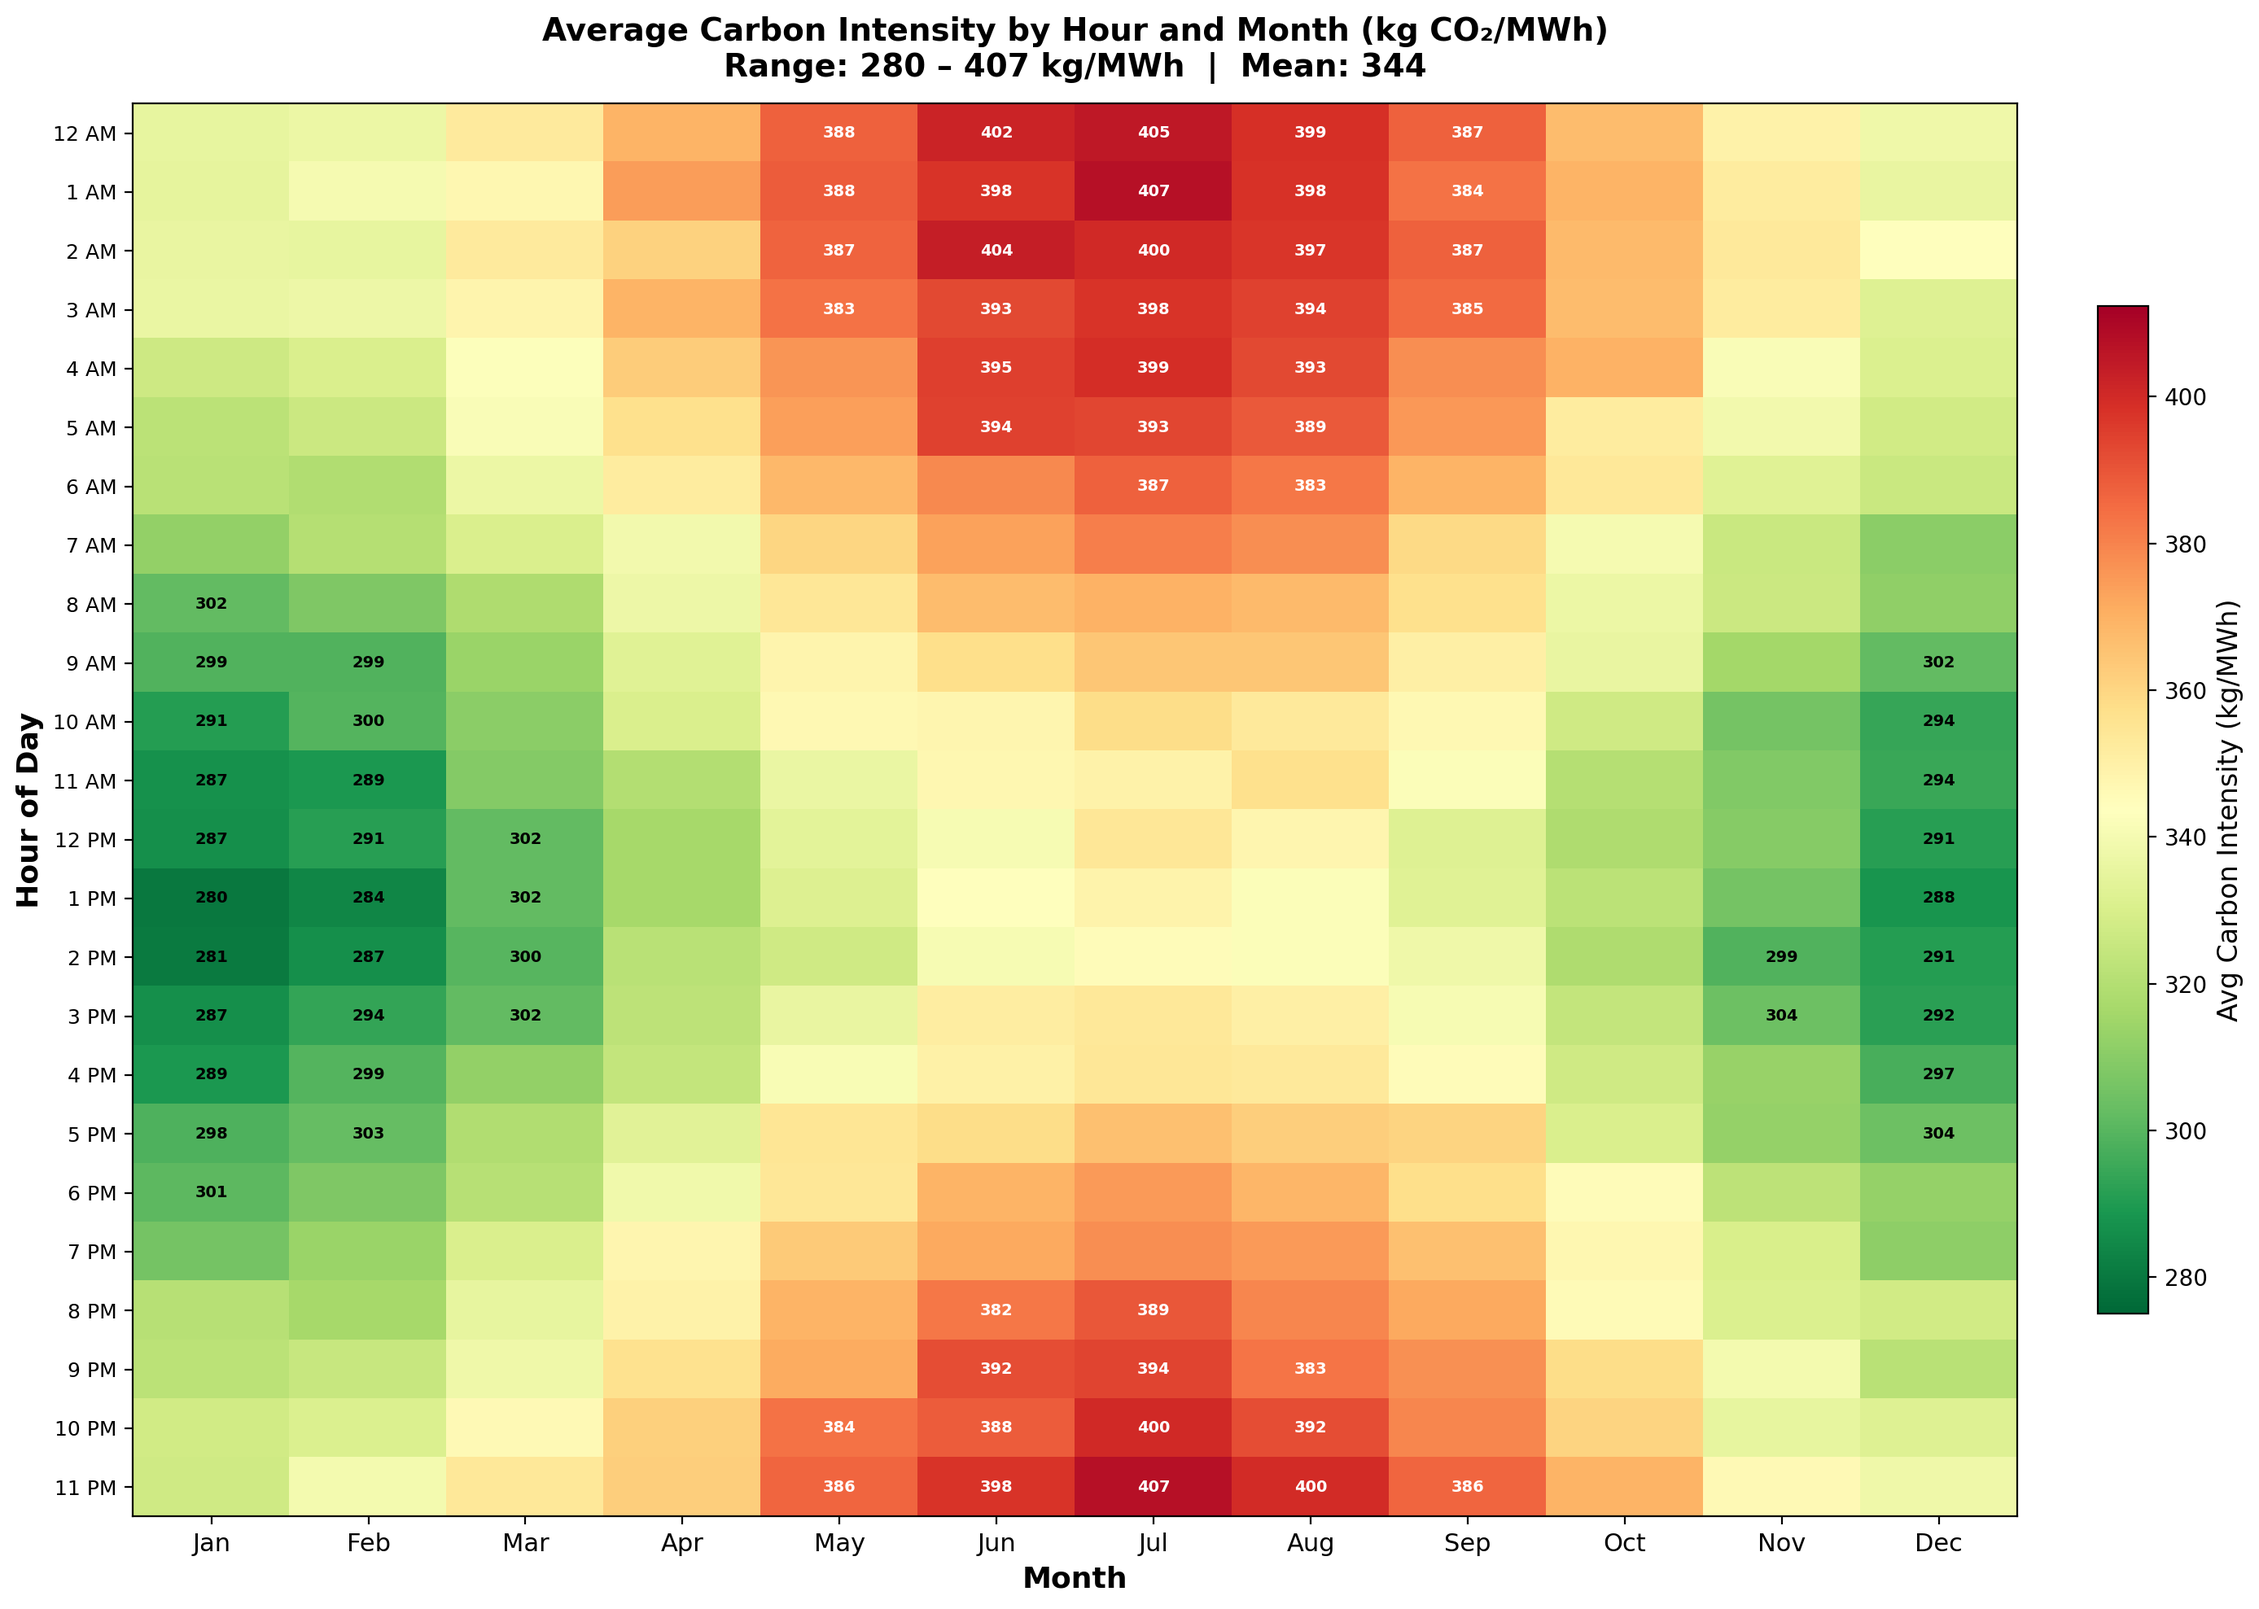
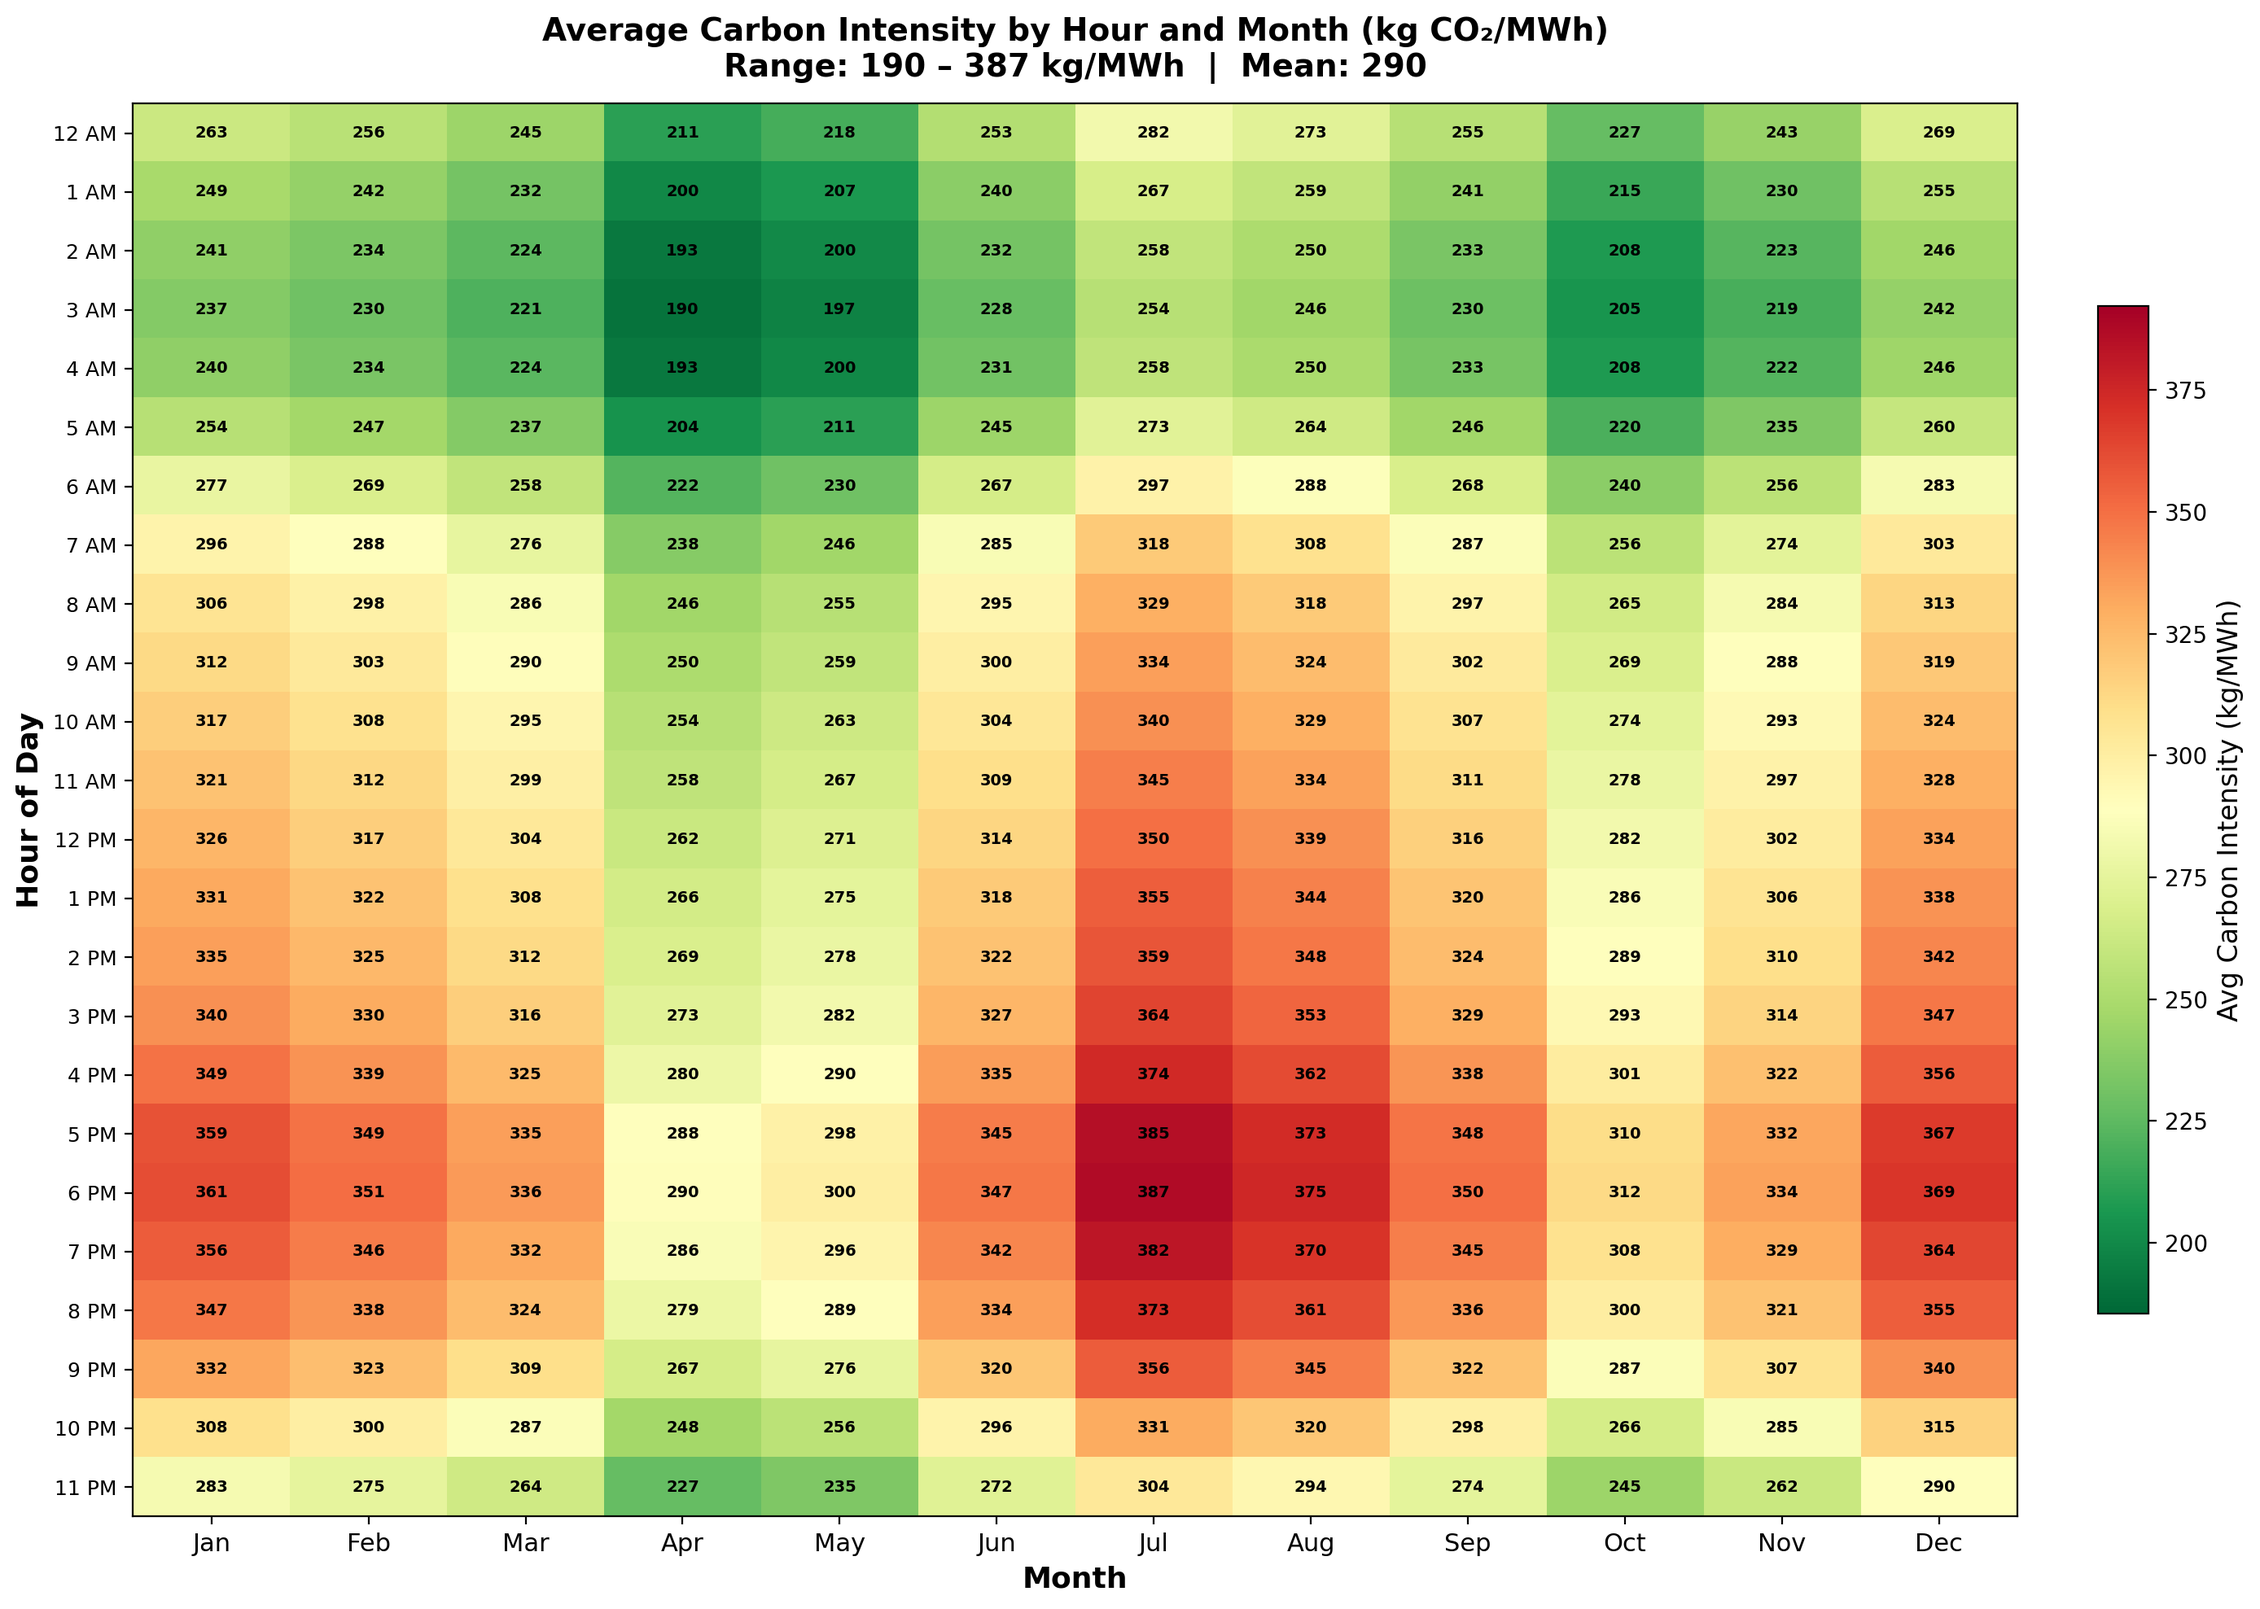
good carbon heatmap

diff --git a/REAL_FINAL_MODEL_SUBMISSION_MTFC_INVENTORS/REAL_FINAL_SENSITIVITY_ANALYSIS/carbon_heatmap.py b/REAL_FINAL_MODEL_SUBMISSION_MTFC_INVENTORS/REAL_FINAL_SENSITIVITY_ANALYSIS/carbon_heatmap.py
@@ -135,21 +135,11 @@ def plot_heatmap(df: pd.DataFrame):
 
     # Annotate EVERY cell with its integer CI value
     ci_min, ci_max = pivot.values.min(), pivot.values.max()
-    # Use the colormap to determine text contrast
-    ci_range = ci_max - ci_min if ci_max > ci_min else 1
-    cmap = plt.cm.RdYlGn_r
     for i in range(24):
         for j in range(12):
             val = pivot.values[i, j]
-            # Map value to colormap normalised position
-            norm_val = (val - (ci_min - 5)) / ((ci_max + 5) - (ci_min - 5))
-            r, g, b, _ = cmap(norm_val)
-            # Perceived luminance (ITU-R BT.601)
-            lum = 0.299 * r + 0.587 * g + 0.114 * b
-            # Dark text on light/medium cells, white only on very dark cells
-            color = "white" if lum < 0.35 else "#1a1a1a"
             ax.text(j, i, f"{int(round(val))}", ha="center", va="center",
-                    fontsize=7, fontweight="bold", color=color)
+                    fontsize=7, fontweight="bold", color="black")
 
     ax.set_xticks(range(12))
     ax.set_xticklabels(month_labels, fontsize=11)
